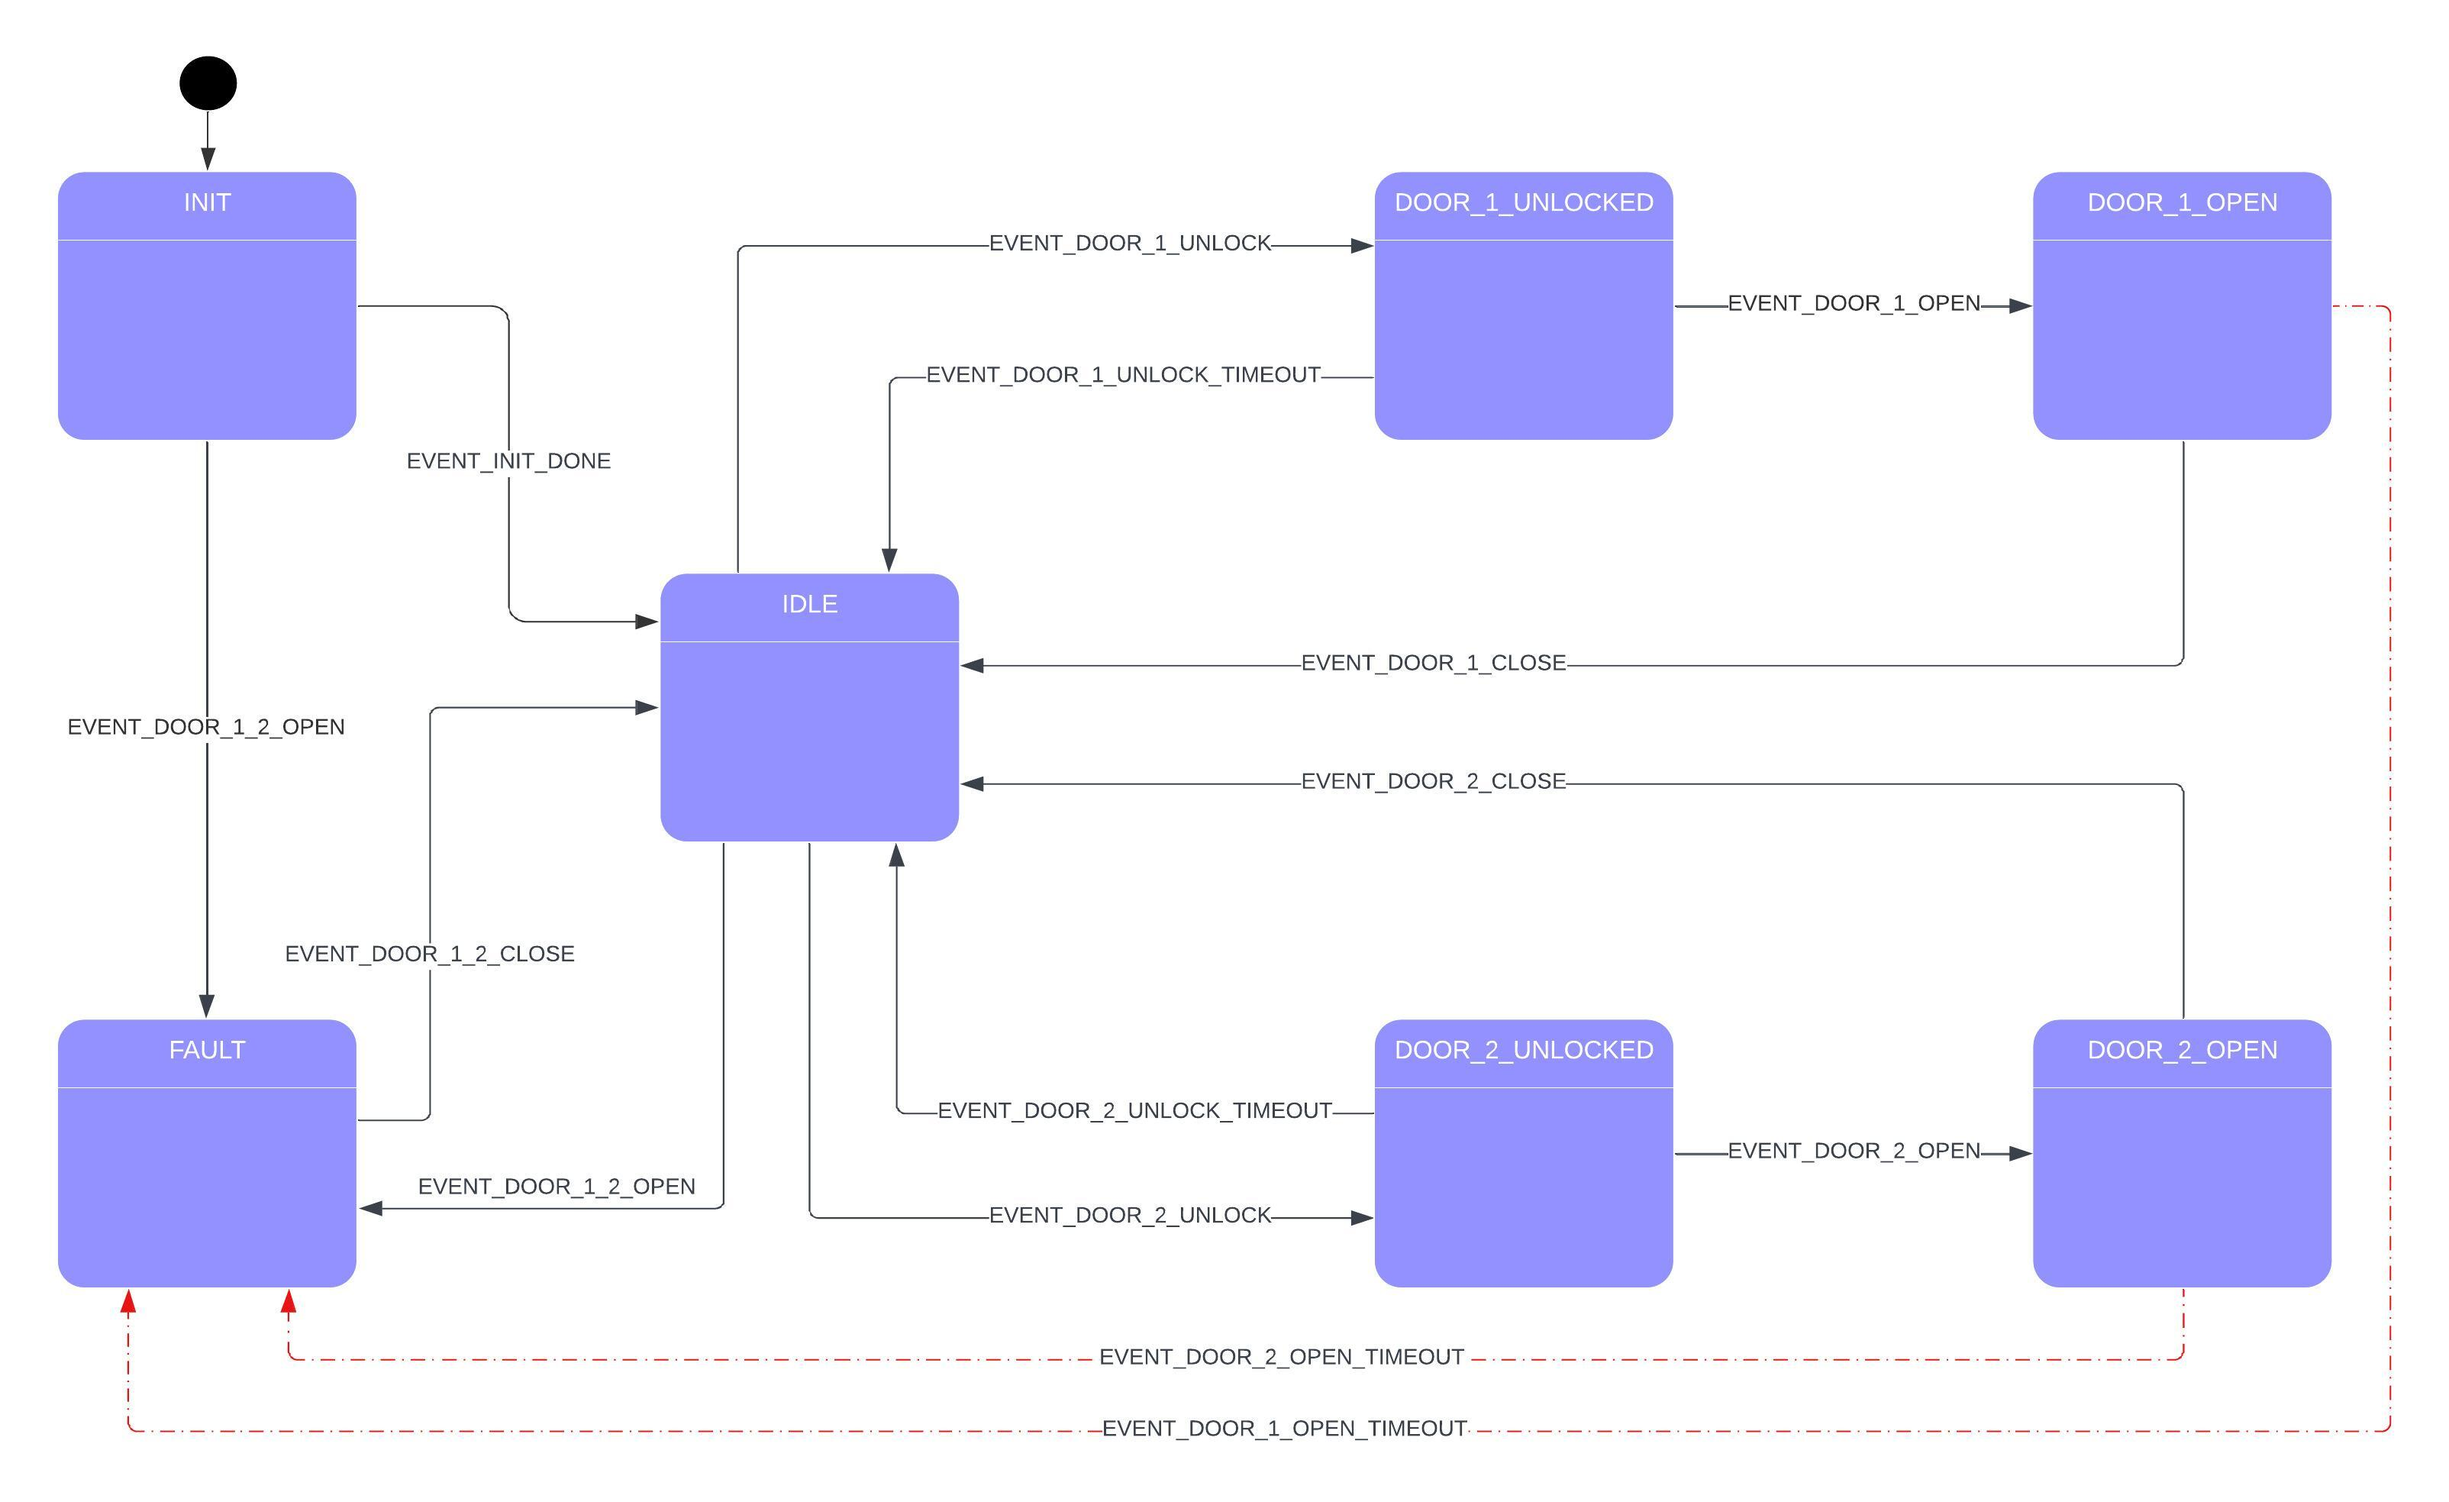
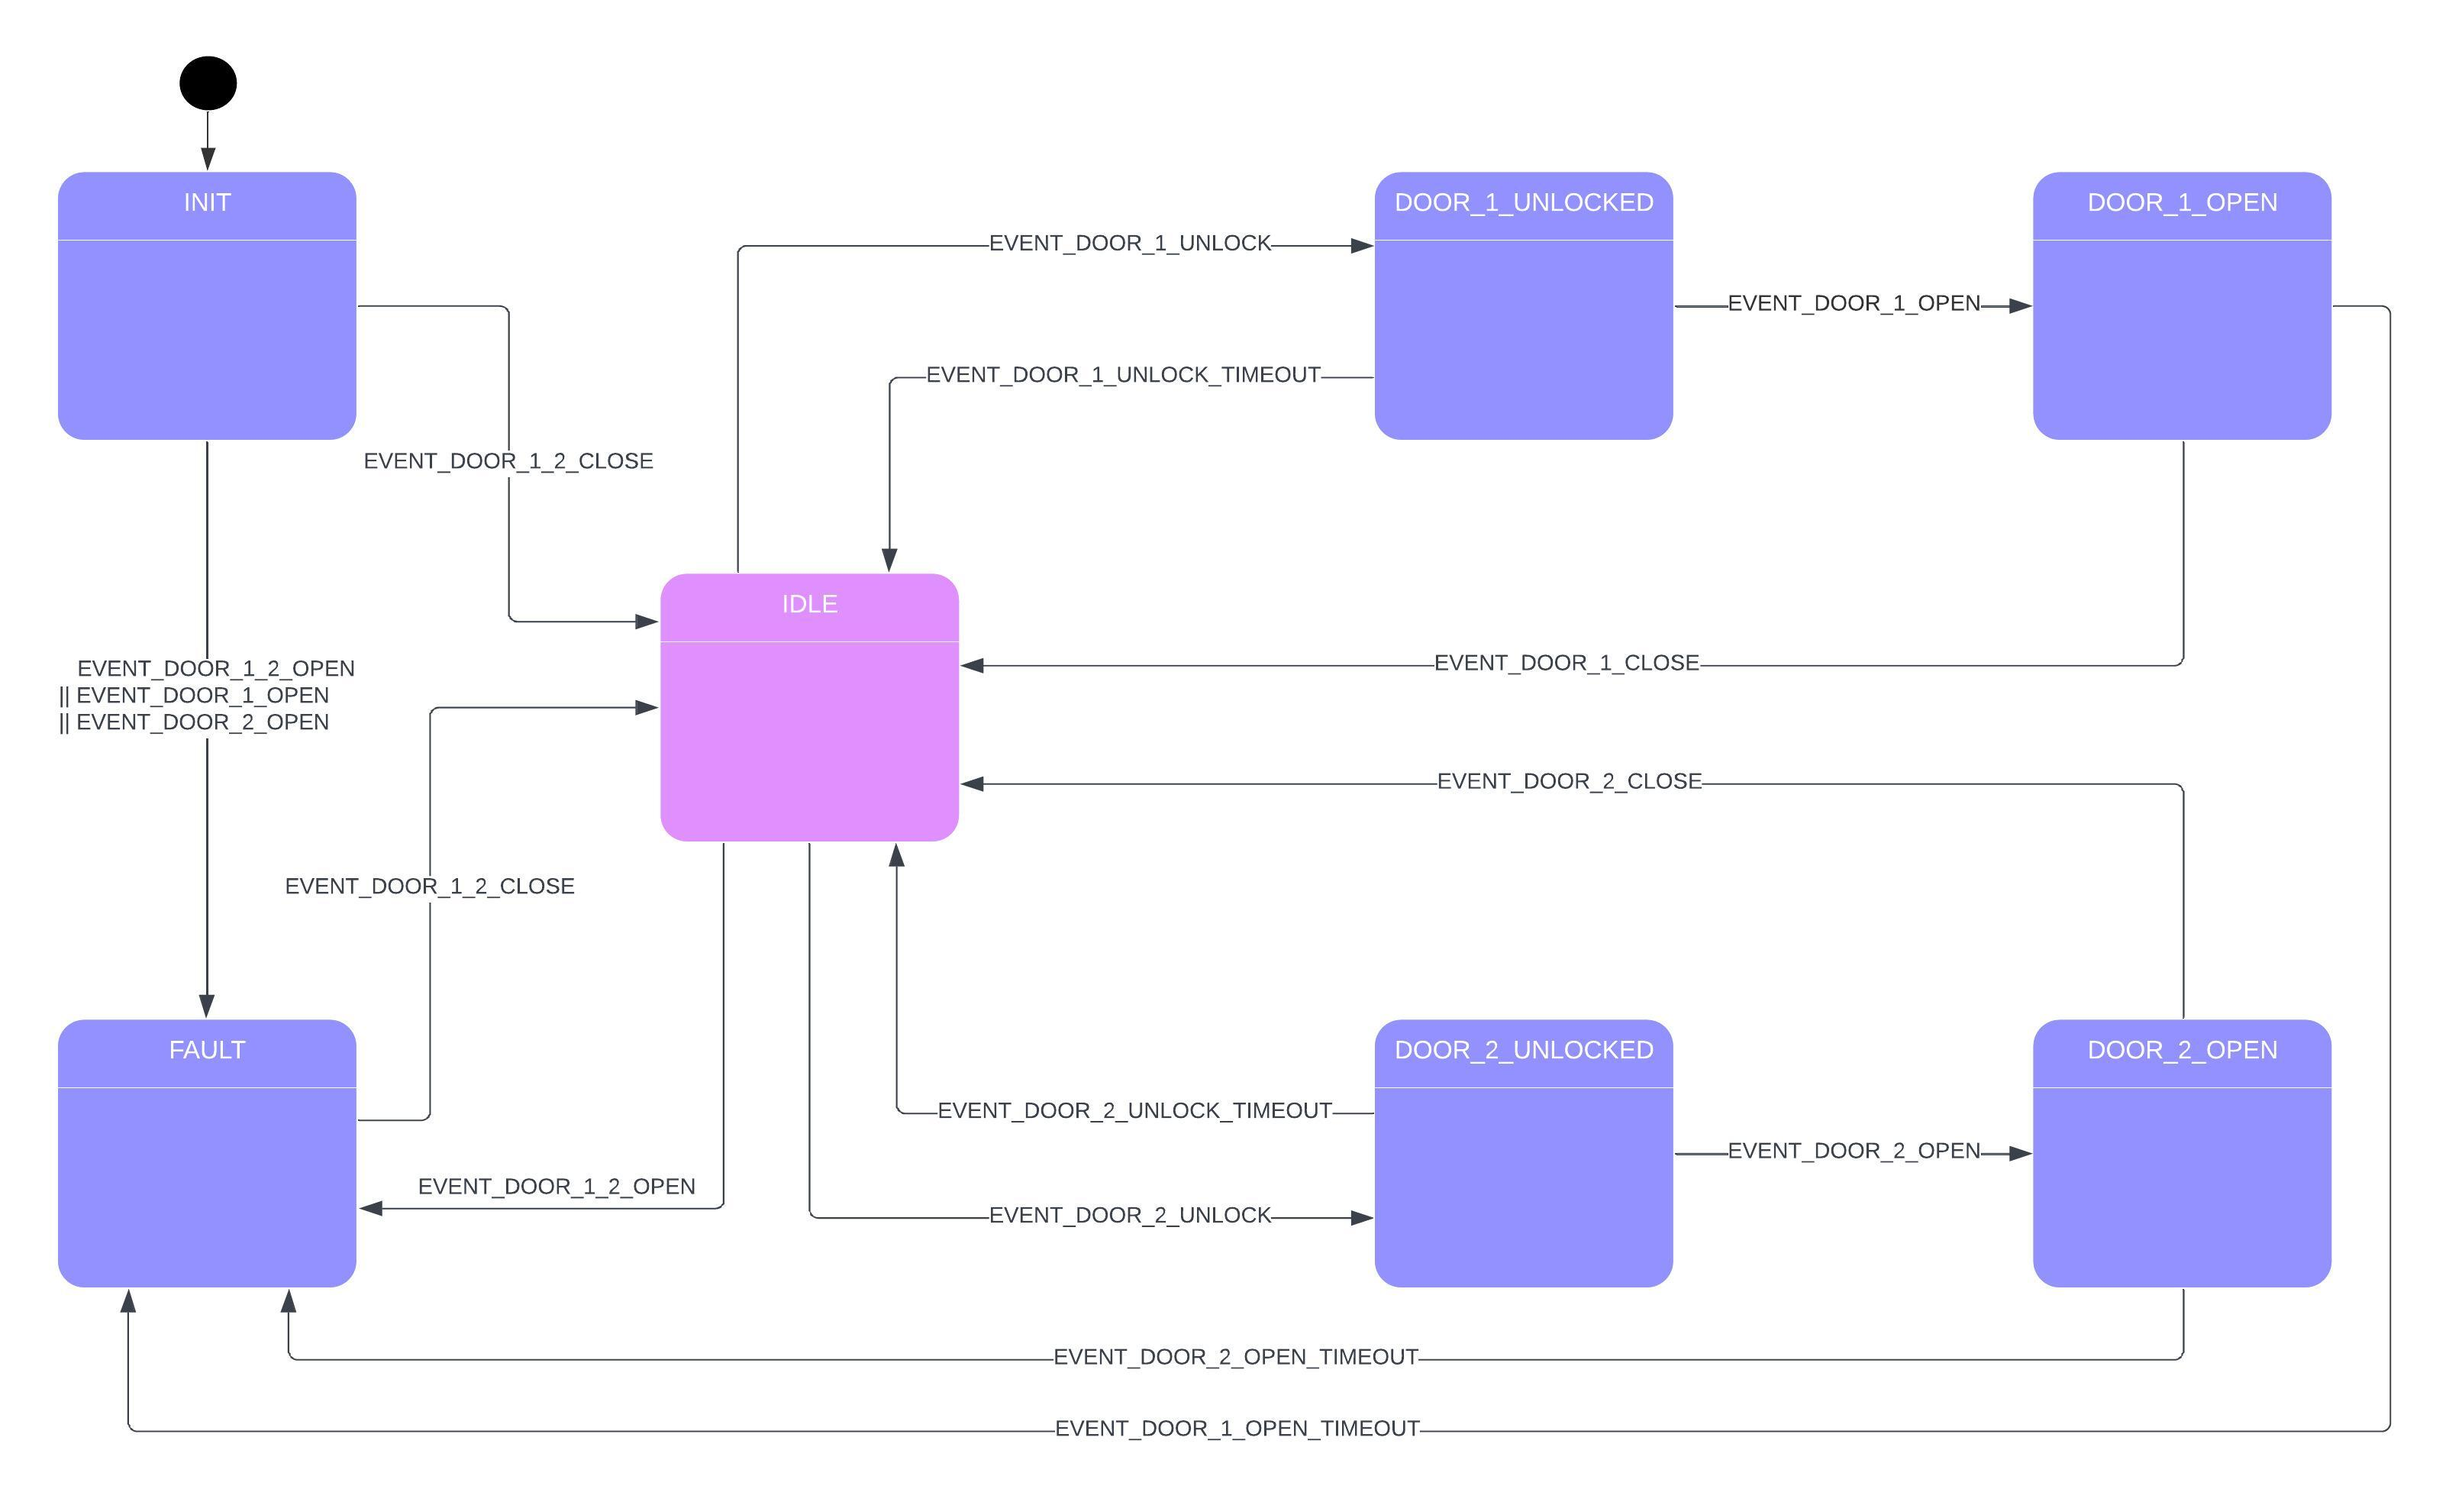
Added door unlock state logic

diff --git a/src/main.cpp b/src/main.cpp
@@ -242,7 +242,6 @@ static void                   door2BlinkLedIsrHandler( void );
 static void                   doorOpenTimeoutHandler( uint32_t time );
 static void                   doorUnlockTimeoutHandler( uint32_t time );
 
-
 static void            init( door_control_t* const pDoorControl );
 void                   eventLogger( uint32_t stateMachine, uint32_t state, uint32_t event );
 void                   resultLogger( uint32_t state, state_machine_result_t result );
@@ -253,6 +252,7 @@ static String          stateToString( door_control_state_t state );
 static String          eventToString( door_control_event_t event );
 static String          resultToString( state_machine_result_t result );
 static String          sensorToString( sensor_t sensor );
+static String          timerTypeToString( door_timer_type_t timerType );
 static void            setLed( bool enable, door_type_t door, led_color_t color );
 static void            processTimers( door_control_t* const pDoorControl );
 
@@ -552,6 +552,22 @@ static state_machine_result_t idleHandler( state_machine_t* const pState, const 
 {
     Log.verbose( "%s: Event %s" CR, __func__, eventToString( (door_control_event_t) event ).c_str() );
 
+    /* Process the event */
+    switch ( event )
+    {
+        case DOOR_CONTROL_EVENT_DOOR_1_UNLOCK:
+            switch_state( pState, &doorControlStates[DOOR_CONTROL_STATE_DOOR_1_UNLOCKED] );
+            break;
+        case DOOR_CONTROL_EVENT_DOOR_2_UNLOCK:
+            switch_state( pState, &doorControlStates[DOOR_CONTROL_STATE_DOOR_2_UNLOCKED] );
+            break;
+        case DOOR_CONTROL_EVENT_DOOR_1_2_OPEN:
+            switch_state( pState, &doorControlStates[DOOR_CONTROL_STATE_FAULT] );
+            break;
+        default:
+            break;
+    }
+
     /* Get the state of the door buttons. The debounce state isn't used here,
      * but it is necessary to call the function.
      */
@@ -562,33 +578,17 @@ static state_machine_result_t idleHandler( state_machine_t* const pState, const 
     if (    ( door1Button == SENSOR_STATE_PRESSED )
          && ( door2Button == SENSOR_STATE_RELEASED ) )
     {
-        setDoorState( DOOR_TYPE_DOOR_1, LOCK_STATE_UNLOCKED );
+        pushEvent( &pState->event, DOOR_CONTROL_EVENT_DOOR_1_UNLOCK );
     }
     else if (    ( door1Button == SENSOR_STATE_RELEASED )
               && ( door2Button == SENSOR_STATE_PRESSED ) )
     {
-        setDoorState( DOOR_TYPE_DOOR_2, LOCK_STATE_UNLOCKED );
+        pushEvent( &pState->event, DOOR_CONTROL_EVENT_DOOR_2_UNLOCK );
     }
     else
     {
         setDoorState( DOOR_TYPE_DOOR_1, LOCK_STATE_LOCKED );
         setDoorState( DOOR_TYPE_DOOR_2, LOCK_STATE_LOCKED );
-    }
-
-    /* Process the event */
-    switch ( event )
-    {
-        case DOOR_CONTROL_EVENT_DOOR_1_OPEN:
-            switch_state( pState, &doorControlStates[DOOR_CONTROL_STATE_DOOR_1_OPEN] );
-            break;
-        case DOOR_CONTROL_EVENT_DOOR_2_OPEN:
-            switch_state( pState, &doorControlStates[DOOR_CONTROL_STATE_DOOR_2_OPEN] );
-            break;
-        case DOOR_CONTROL_EVENT_DOOR_1_2_OPEN:
-            switch_state( pState, &doorControlStates[DOOR_CONTROL_STATE_FAULT] );
-            break;
-        default:
-            break;
     }
 
     return EVENT_HANDLED;
@@ -614,28 +614,7 @@ static state_machine_result_t idleExitHandler( state_machine_t* const pState, co
 }
 
 
-static state_machine_result_t door1UnlockHandler( state_machine_t* const pState, const uint32_t event )
-{
-    Log.verbose("%s: Event %s" CR, __func__, eventToString( (door_control_event_t) event ).c_str() );
 
-    return EVENT_HANDLED;
-}
-
-
-static state_machine_result_t door1UnlockEntryHandler( state_machine_t* const pState, const uint32_t event )
-{
-    Log.verbose("%s: Event %s" CR, __func__, eventToString( (door_control_event_t) event ).c_str() );
-
-    return EVENT_HANDLED;
-}
-
-
-static state_machine_result_t door1UnlockExitHandler( state_machine_t* const pState, const uint32_t event )
-{
-    Log.verbose("%s: Event %s" CR, __func__, eventToString( (door_control_event_t) event ).c_str() );
-
-    return EVENT_HANDLED;
-}
 
 
 /**
@@ -713,6 +692,86 @@ static void faultBlinkLedIsrHandler( void )
 
 
 /**
+ * @brief Handler for the door 1 unlock entry
+ * 
+ * @param pState - The state machine
+ * @param event - The event
+ * @return state_machine_result_t - The result of the handler
+ */
+static state_machine_result_t door1UnlockEntryHandler( state_machine_t* const pState, const uint32_t event )
+{
+    Log.verbose("%s: Event %s" CR, __func__, eventToString( (door_control_event_t) event ).c_str() );
+
+    /* Unlock the door and start led blink */
+    setDoorState( DOOR_TYPE_DOOR_1, LOCK_STATE_UNLOCKED );
+    Timer1.attachInterrupt( door1BlinkLedIsrHandler );
+    Timer1.start();
+
+    doorControl.doorTimer[DOOR_TIMER_TYPE_UNLOCK].timeReference = millis();
+
+    return EVENT_HANDLED;
+}
+
+
+/**
+ * @brief Handler for the door 1 unlock
+ * 
+ * @param pState - The state machine
+ * @param event - The event
+ * @return state_machine_result_t - The result of the handler
+ */
+static state_machine_result_t door1UnlockHandler( state_machine_t* const pState, const uint32_t event )
+{
+    Log.verbose("%s: Event %s" CR, __func__, eventToString( (door_control_event_t) event ).c_str() );
+
+    switch ( event )
+    {
+    case DOOR_CONTROL_EVENT_DOOR_1_UNLOCK_TIMEOUT:
+        switch_state( pState, &doorControlStates[DOOR_CONTROL_STATE_IDLE] );
+        break;
+    case DOOR_CONTROL_EVENT_DOOR_1_OPEN:
+        switch_state( pState, &doorControlStates[DOOR_CONTROL_STATE_DOOR_1_OPEN] );
+        break;
+    default:
+        break;
+    }
+
+    return EVENT_HANDLED;
+}
+
+/**
+ * @brief Handler for the door 1 unlock exit
+ * 
+ * @param pState - The state machine
+ * @param event - The event
+ * @return state_machine_result_t - The result of the handler
+ */
+static state_machine_result_t door1UnlockExitHandler( state_machine_t* const pState, const uint32_t event )
+{
+    Log.verbose("%s: Event %s" CR, __func__, eventToString( (door_control_event_t) event ).c_str() );
+
+    /* Only lock the door and disable the led blink if we move back to the idle state */
+    const state_t* pNextState = pState->State;
+    if ( pNextState->Id == DOOR_CONTROL_STATE_IDLE )
+    {
+        /* Lock the door */
+        setDoorState( DOOR_TYPE_DOOR_1, LOCK_STATE_LOCKED );
+
+        /* Stop the led blink and disable leds */
+        Timer1.stop();
+        Timer1.detachInterrupt();
+        setLed( false, DOOR_TYPE_DOOR_1, LED_COLOR_SIZE );
+        setLed( false, DOOR_TYPE_DOOR_2, LED_COLOR_SIZE );
+    }
+
+    /* Reset the door unlock timer */
+    doorControl.doorTimer[DOOR_TIMER_TYPE_UNLOCK].timeReference = 0;
+
+    return EVENT_HANDLED;
+}
+
+
+/**
  * @brief Handler for the door 1 open entry
  * 
  * @param pState - The state machine
@@ -722,11 +781,6 @@ static void faultBlinkLedIsrHandler( void )
 static state_machine_result_t door1OpenEntryHandler( state_machine_t* const pState, const uint32_t event )
 {
     Log.verbose("%s: Event %s" CR, __func__, eventToString( (door_control_event_t) event ).c_str() );
-
-    /* Unlock the door */
-    setDoorState( DOOR_TYPE_DOOR_1, LOCK_STATE_UNLOCKED );
-    Timer1.attachInterrupt( door1BlinkLedIsrHandler );
-    Timer1.start();
 
     /* Start the door open timer */
     doorControl.doorTimer[DOOR_TIMER_TYPE_OPEN].timeReference = millis();
@@ -800,25 +854,81 @@ static void door1BlinkLedIsrHandler( void )
 }
 
 
-static state_machine_result_t door2UnlockHandler( state_machine_t* const pState, const uint32_t event )
-{
-    Log.verbose("%s: Event %s" CR, __func__, eventToString( (door_control_event_t) event ).c_str() );
-
-    return EVENT_HANDLED;
-}
-
-
+/**
+ * @brief Handler for the door 2 unlock entry
+ * 
+ * @param pState - The state machine
+ * @param event - The event
+ * @return state_machine_result_t - The result of the handler
+ */
 static state_machine_result_t door2UnlockEntryHandler( state_machine_t* const pState, const uint32_t event )
 {
     Log.verbose("%s: Event %s" CR, __func__, eventToString( (door_control_event_t) event ).c_str() );
 
+    /* Unlock the door and start led blink */
+    setDoorState( DOOR_TYPE_DOOR_2, LOCK_STATE_UNLOCKED );
+    Timer1.attachInterrupt( door2BlinkLedIsrHandler );
+    Timer1.start();
+
+    doorControl.doorTimer[DOOR_TIMER_TYPE_UNLOCK].timeReference = millis();
+
     return EVENT_HANDLED;
 }
 
 
+/**
+ * @brief Handler for the door 2 unlock
+ * 
+ * @param pState - The state machine
+ * @param event - The event
+ * @return state_machine_result_t - The result of the handler
+ */
+static state_machine_result_t door2UnlockHandler( state_machine_t* const pState, const uint32_t event )
+{
+    Log.verbose("%s: Event %s" CR, __func__, eventToString( (door_control_event_t) event ).c_str() );
+
+    switch ( event )
+    {
+    case DOOR_CONTROL_EVENT_DOOR_2_UNLOCK_TIMEOUT:
+        switch_state( pState, &doorControlStates[DOOR_CONTROL_STATE_IDLE] );
+        break;
+    case DOOR_CONTROL_EVENT_DOOR_2_OPEN:
+        switch_state( pState, &doorControlStates[DOOR_CONTROL_STATE_DOOR_2_OPEN] );
+        break;
+    default:
+        break;
+    }
+
+    return EVENT_HANDLED;
+}
+
+/**
+ * @brief Handler for the door 2 unlock exit
+ * 
+ * @param pState - The state machine
+ * @param event - The event
+ * @return state_machine_result_t - The result of the handler
+ */
 static state_machine_result_t door2UnlockExitHandler( state_machine_t* const pState, const uint32_t event )
 {
     Log.verbose("%s: Event %s" CR, __func__, eventToString( (door_control_event_t) event ).c_str() );
+
+    /* Only lock the door and disable the led blink if we move back to the idle state */
+    const state_t* pNextState = pState->State;
+    if ( pNextState->Id == DOOR_CONTROL_STATE_IDLE )
+    {
+        /* Lock the door */
+        setDoorState( DOOR_TYPE_DOOR_2, LOCK_STATE_LOCKED );
+
+        /* Stop the led blink and disable leds */
+        Timer1.stop();
+        Timer1.detachInterrupt();
+        setLed( false, DOOR_TYPE_DOOR_1, LED_COLOR_SIZE );
+        setLed( false, DOOR_TYPE_DOOR_2, LED_COLOR_SIZE );
+    }
+
+    /* Reset the door unlock timer */
+    doorControl.doorTimer[DOOR_TIMER_TYPE_UNLOCK].timeReference = 0;
 
     return EVENT_HANDLED;
 }
@@ -930,6 +1040,9 @@ static void doorOpenTimeoutHandler( uint32_t time )
 static void doorUnlockTimeoutHandler( uint32_t time )
 {
     Log.verbose("%s: Time: %d" CR, __func__, time );
+
+    /* Switch back to the idle state if the door is not opened in time */
+    switch_state( &doorControl.machine, &doorControlStates[DOOR_CONTROL_STATE_IDLE] );
 }
 
 /**
@@ -1221,7 +1334,7 @@ static void processTimers( door_control_t* const pDoorControl )
 
             /* Calculate remaining time */
             String remainingTime = String( ( pDoorControl->doorTimer[i].timeout - ( currentTime - pDoorControl->doorTimer[i].timeReference ) ) / 1000.0F );
-            Log.notice( "Door %d timer remaining time: %s" CR, i, remainingTime.c_str() );
+            Log.notice( "%s: %s" CR, timerTypeToString( (door_timer_type_t) i ).c_str(), remainingTime.c_str() );
         }
     }
 }
@@ -1341,6 +1454,19 @@ static String sensorToString( sensor_t sensor )
         return "SENSOR_SWITCH_2";
     case SENSOR_SIZE:
         return "SENSOR_SIZE";
+    default:
+        return "UNKNOWN";
+    }
+}
+
+static String timerTypeToString( door_timer_type_t timerType )
+{
+    switch ( timerType )
+    {
+    case DOOR_TIMER_TYPE_OPEN:
+        return "DOOR_TIMER_TYPE_OPEN";
+    case DOOR_TIMER_TYPE_UNLOCK:
+        return "DOOR_TIMER_TYPE_UNLOCK";
     default:
         return "UNKNOWN";
     }
